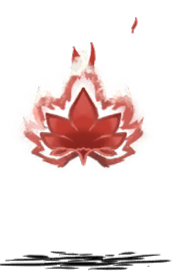
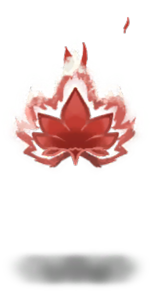
内容/图片：修掉展示图串图（魂幡多蝎子头、暗影血蝠粘石头、灵虚葫缺火焰），两个根改用真图
用户反馈
- 魂幡预览图多了蝎子的头
- 融灵草根、彼岸花根卡片图太虚

原因
- 串图：dst-app 找符号是跨 build 按名字解析的。符号在两边都合法存在时（head、body、
  bat_body…）取错图集，魂幡的 head 拿到了蝎子的头，暗影血蝠的 bat_body 粘上蝎龙的灰部件，
  灵虚葫少了火焰光环
- 两个根：它们没有自己的动画包，卡片图回退成 64x64 图标放大（很虚）。
  实际动画在父本植物包里：lj_reiki_grass / lj_red_magic_flower 的 dug 帧

修法
1. tools/extract_mod_showcase.py：导出时显式传 opts.builds = { 该条目自己的 build }，
   渲染器只查这一套图集 —— 跨包串图从根上消除（配 hide_layers 那道防线一起用）
2. 新增特例：lj_reiki_dug_grass -> bank lj_reiki_grass + anim dug；
   lj_red_magic_dug_flower -> bank lj_red_magic_flower + anim dug

重导结果（78 -> 80 张，resolved=80 missing=2）
- 变化 9 张：魂幡、暗影血蝠、灵虚葫、墟火、月狮、灵虚光盏、镇魔枢核、两个根（新增）
- 魂幡去掉蝎子头、暗影血蝠恢复干净、灵虚葫补回火焰光环、两个根从图标换成真图

文档
- images/lingjie/showcase/README.md：串图一节重写（两类问题 + 现在的两道防线 +
  13 条 build 未识别条目要人工看）；已知特例补上两个根；总数 78 -> 80

校验：validate_content.py 没有错误；verify_site.js 没有失败项（卡片图 82 个全在）

Changed region(s): [[0.106, 0.1181, 0.9007, 0.6199], [0.0, 0.8266, 1.0, 1.0], [0.7417, 0.059, 0.8742, 0.1181]]

diff --git a/tools/extract_mod_showcase.py b/tools/extract_mod_showcase.py
@@ -70,7 +70,12 @@ PILL_IDS = (
     "lj_disaster_pill", "lj_juling_pill",
 )
 LOG_IDS = ("lj_ice_log", "lj_dragon_log", "lj_mighty_log", "lj_dust_log", "lj_purplemonster_log")
-BANK_ALIAS = {"lj_soul_devouring_snake": "lj_three_headed_snake"}
+BANK_ALIAS = {
+    "lj_soul_devouring_snake": "lj_three_headed_snake",
+    # 挖出来的根没有自己的包，动画在父本植物里（dug = 挖出来那一帧）
+    "lj_reiki_dug_grass": "lj_reiki_grass",
+    "lj_red_magic_dug_flower": "lj_red_magic_flower",
+}
 ANIM_OVERRIDE = {
     "lj_chiyan_scorpion_dragon": "idle_loop_side",
     "lj_crystalcrown": "anim",
@@ -78,6 +83,8 @@ ANIM_OVERRIDE = {
     "lj_huangjie_box": "closed",
     "lj_blood_bat": "fly_loop_side",
     "lj_demon_bat": "fly_loop_side",
+    "lj_reiki_dug_grass": "dug",
+    "lj_red_magic_dug_flower": "dug",
 }
 
 
@@ -211,6 +218,10 @@ for _, e in ipairs(plan) do
             checked and "" or "  (build 未找到，跳过幽灵检查)"))
         if EXPORT then
             local opts = { max_dimension = 512 }
+            -- 关键：只允许用该条目自己的 build 渲染。
+            -- dst-app 找符号是跨 build 按名字来的，批量导入时同名符号（head、body、shadow…）
+            -- 会被别的包抢走 —— 魂幡图上因此多过一个蝎子头。显式给 builds 就只查这一套图集。
+            if build ~= nil then opts.builds = { build } end
             if #phlist > 0 then opts.hide_layers = phlist end
             if e.sym then opts.override_symbols = { [e.sym] = e.id } end
             frame:export_png(OUT .. e.id .. ".png", opts)

diff --git a/images/lingjie/showcase/README.md b/images/lingjie/showcase/README.md
@@ -41,31 +41,39 @@ python tools/extract_mod_showcase.py <mod目录或zip>
 > Get-Process dst-app -ErrorAction SilentlyContinue | Stop-Process -Force
 > ```
 
-## 幽灵符号（导出踩过的坑）
+## 串图（导出踩过的坑）
 
-dst-app 找符号是**跨 build 按名字解析**的：某个动画里引用了自己 build 里并不存在的符号时，
-只要同一次导入的其它 build 里有同名符号，就会被画上去。两个实例：
+dst-app 找符号是**跨 build 按名字解析**的。这引出两类问题：
 
-- `lj_cuiju_box` 的 `closed` 帧里有一个遗留的 `swap_object` 元件 → 批量导入时从灵韵（弓）的
-  build 解析出来，匣子图上**多画了一把弓**
-- `lj_wudao_chair` 的 `idle` 帧同理 → 石台上**浮着一个蓝瓶子**（别处的 `swap_object`）
+**① 幽灵符号**：动画里引用了自己 build 里并不存在的符号，只要同一次导入的其它 build 里有同名
+符号就会被画上去。实例：`lj_cuiju_box` 的 `closed` 帧里有一个遗留的 `swap_object` 元件 →
+从灵韵（弓）的 build 解析出来，匣子图上**多画了一把弓**；`lj_wudao_chair` 同理，
+石台上浮着一个蓝瓶子。
 
-脚本因此会在导出前逐个检查帧内元件：**元素符号不在该条目自己的 build 里**时，把它所在的
-Layer 加进 `hide_layers` 一起导出（丹药那种刻意用 `override_symbols` 替换的会被排除）。
-dry-run 报告里的 `hide=` 一列就是被隐藏的 Layer，`build 未找到，跳过幽灵检查` 表示那条
-无法判断（此时不会乱隐藏）。
+**② 符号被别的包抢走**（更常见）：符号在两边都合法存在，但取错了图集。实例：
+`lj_soul_banner` 的 `head` 拿到了**蝎子的头**、`lj_demon_bat` 的 `bat_body` 粘上了蝎龙的灰色部件、
+`lj_reiki_gourd` 少了火焰光环。
 
-还有一条更隐蔽的坑：**导入过的资源会留在 dst-app 的文档里，跨多次调用都不清空**。
-所以做「只导某一个包」的隔离导出时，一定要先清空，否则上一个包还赖在文档里，
-符号会被它抢走。清空用的 Lua：
+### 现在的处理（两道防线）
 
-```lua
-tool:reset_workspace()   -- 命令会排队，脚本提交后执行
-```
+1. **导出时显式指定 `builds`**：`opts.builds = { 该条目自己的 build }`，
+   渲染器就只查这一套图集，跨包串图从根上没了。
+2. 仍然逐个检查帧内元件，把**符号不在自己 build 里**的元件所在 Layer 加进 `hide_layers`
+   （丹药那种刻意用 `override_symbols` 替换的会被排除）。
 
-实例：境界徽章 `realm_value_ui` 与灵力徽章 `spirit_value_ui` 的符号名完全一样
-（`bg`、`frame_circle`、`brain`…），不清空就连着导两次，两张图会渲染成**一模一样**
-（详见 `../anim/README.md`）。
+dry-run 报告里的 `build=` 是判定出的 build，`hide=` 是被隐藏的 Layer，
+`build 未找到，跳过幽灵检查` 表示那条两条防线都没生效——**这类条目要人工看一眼**
+（当前 13 条：5 本线索日志 + 日志 + 星陨 + 虚空戒 + 4 个线索物品，都是造型简单的物品）。
+
+> 追加的历史坑：**导入过的资源会留在 dst-app 的文档里，跨多次调用都不清空**。
+> 所以做「只导某一个包」的隔离导出时，一定要先清空，否则上一个包还赖在文档里：
+>
+> ```lua
+> tool:reset_workspace()   -- 命令会排队，脚本提交后执行
+> ```
+>
+> 实例：境界徽章 `realm_value_ui` 与灵力徽章 `spirit_value_ui` 的符号名完全一样，
+> 不清空就连着导两次，两张图会渲染成**一模一样**（详见 `../anim/README.md`）。
 
 ## 已知特例
 
@@ -78,10 +86,11 @@ tool:reset_workspace()   -- 命令会排队，脚本提交后执行
 | `lj_blood_bat` / `lj_demon_bat` | 飞行生物，没有 `idle`，取 `fly_loop_side` |
 | 5 本线索日志 | 借用 `lj_log` 的 bank（同一个模型） |
 | `lj_soul_devouring_snake` | 借用 `lj_three_headed_snake` 的 bank（模型名不同） |
-| 蝴蝶岛 / 融灵草根 / 彼岸花根 | 没有动画，卡片沿用图标 |
+| `lj_reiki_dug_grass` / `lj_red_magic_dug_flower` | 挖出来的根没有自己的包，借用父本植物 `lj_reiki_grass` / `lj_red_magic_flower` 的 bank，取 `dug`（挖出来那一帧）。**不加这条会回退成 64×64 图标放大，很虚** |
+| 蝴蝶岛 | 没有动画，卡片无图（本来就没有展示图） |
 | 炼丹炉 / 灵虚光盏 / 残骸祭坛 / 月狮 / 毒蝎幼虫 / 噬魂蛇 | 都没有精确的 `idle`，脚本兜底取该 bank 里第一个 `idle*`（dry-run 报告会标 `(fallback)`） |
 
-目前共 78 张（61 个独立动画的物品 + 17 种丹药的符号覆盖图，**17 张丹药图内容各不相同**）。
+目前共 80 张（63 个独立动画的物品 + 17 种丹药的符号覆盖图，**17 张丹药图内容各不相同**）。
 
 ## 与 `icons/` 的区别
 
